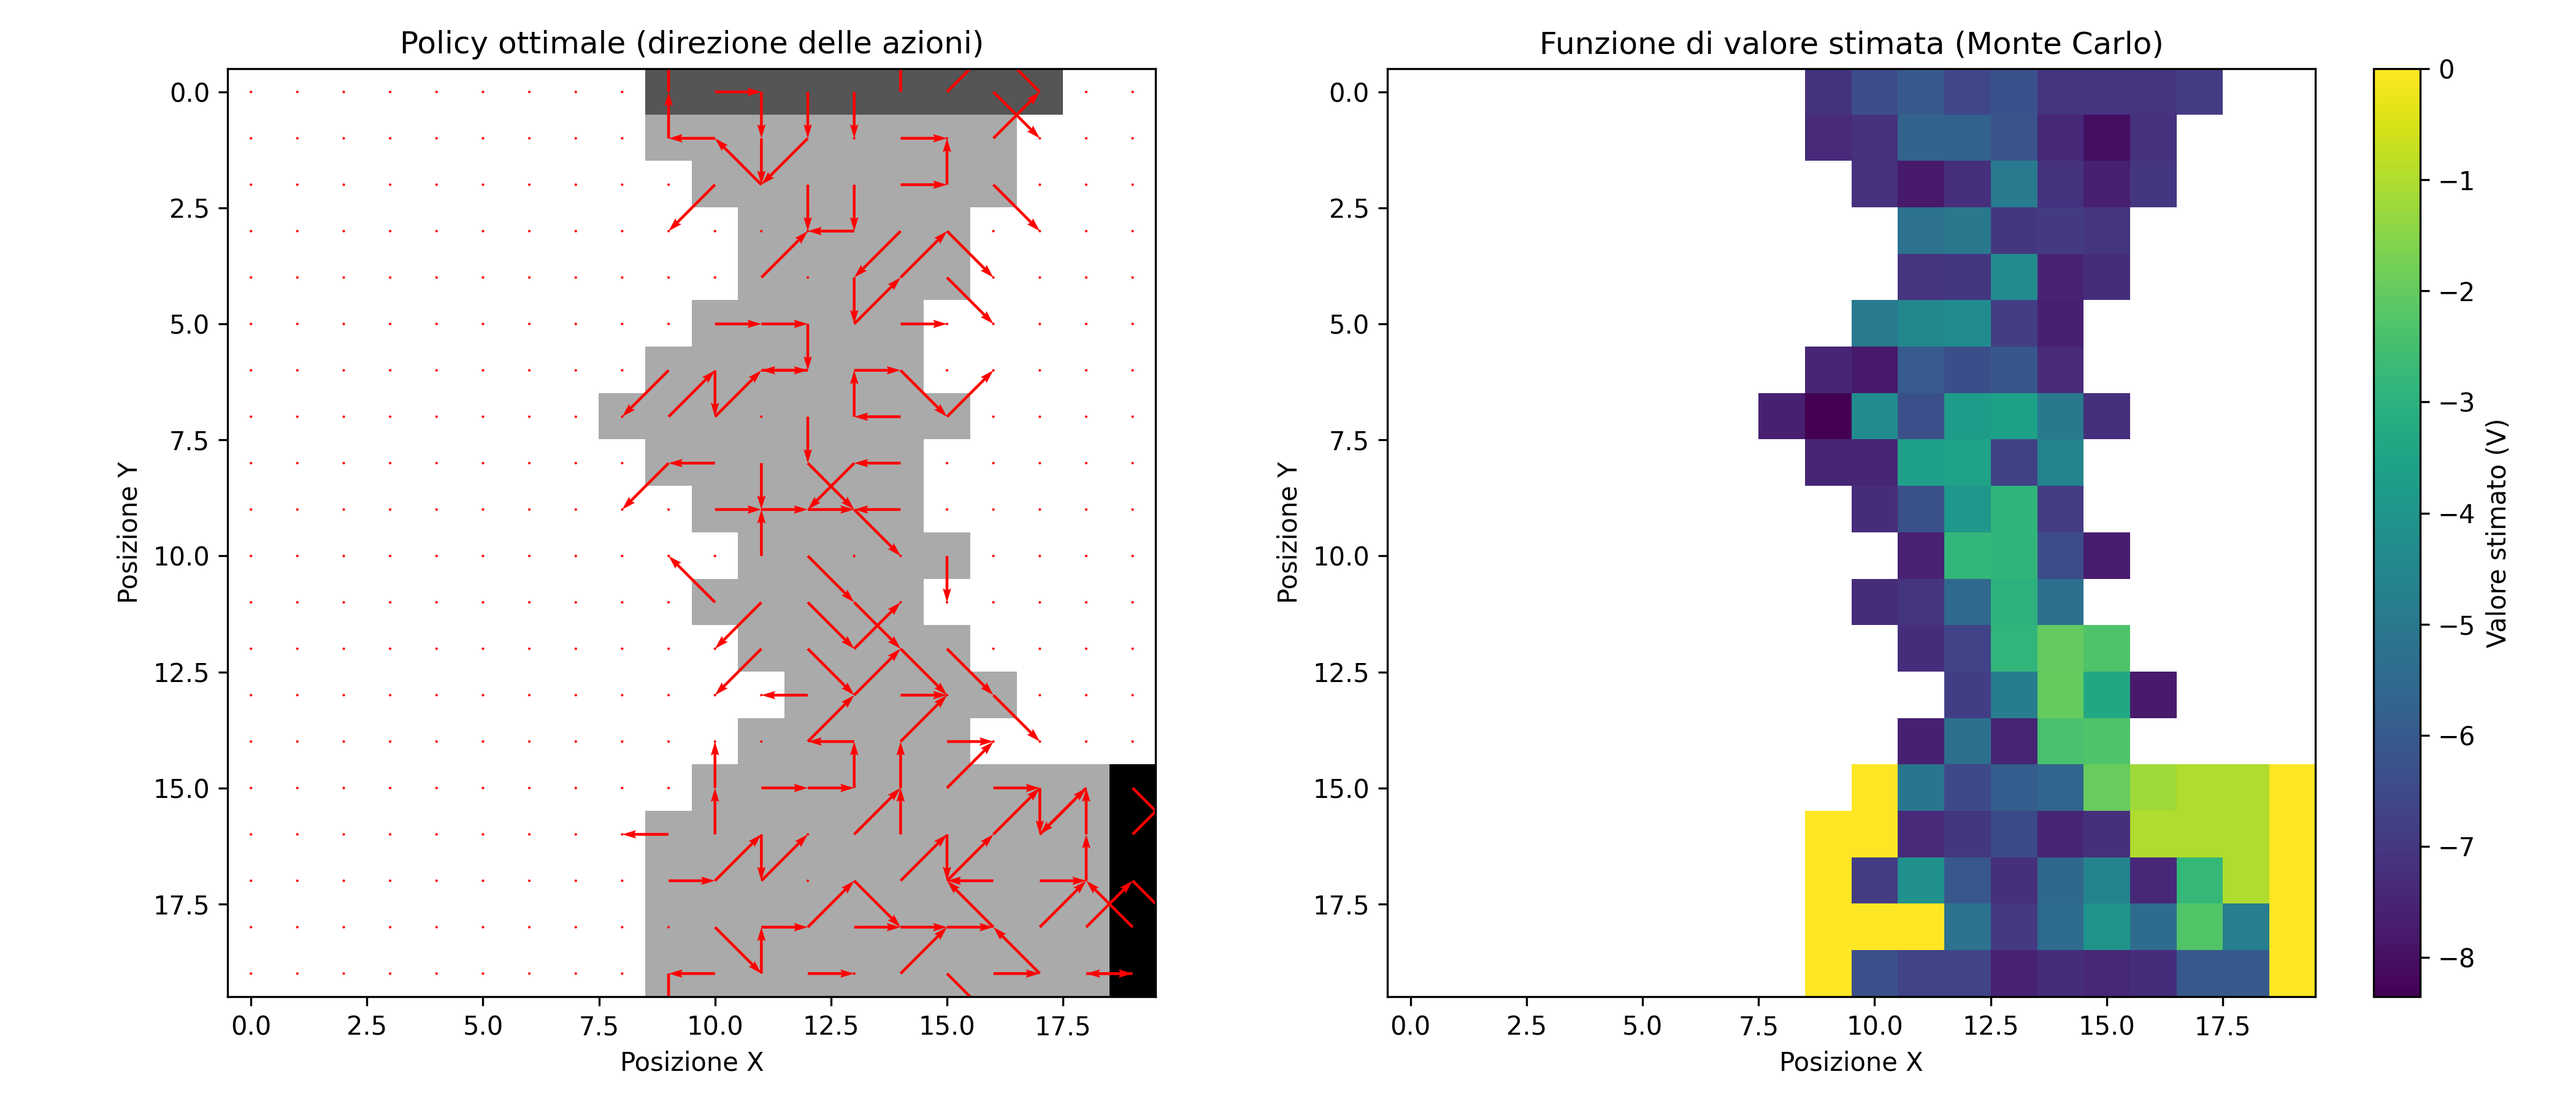
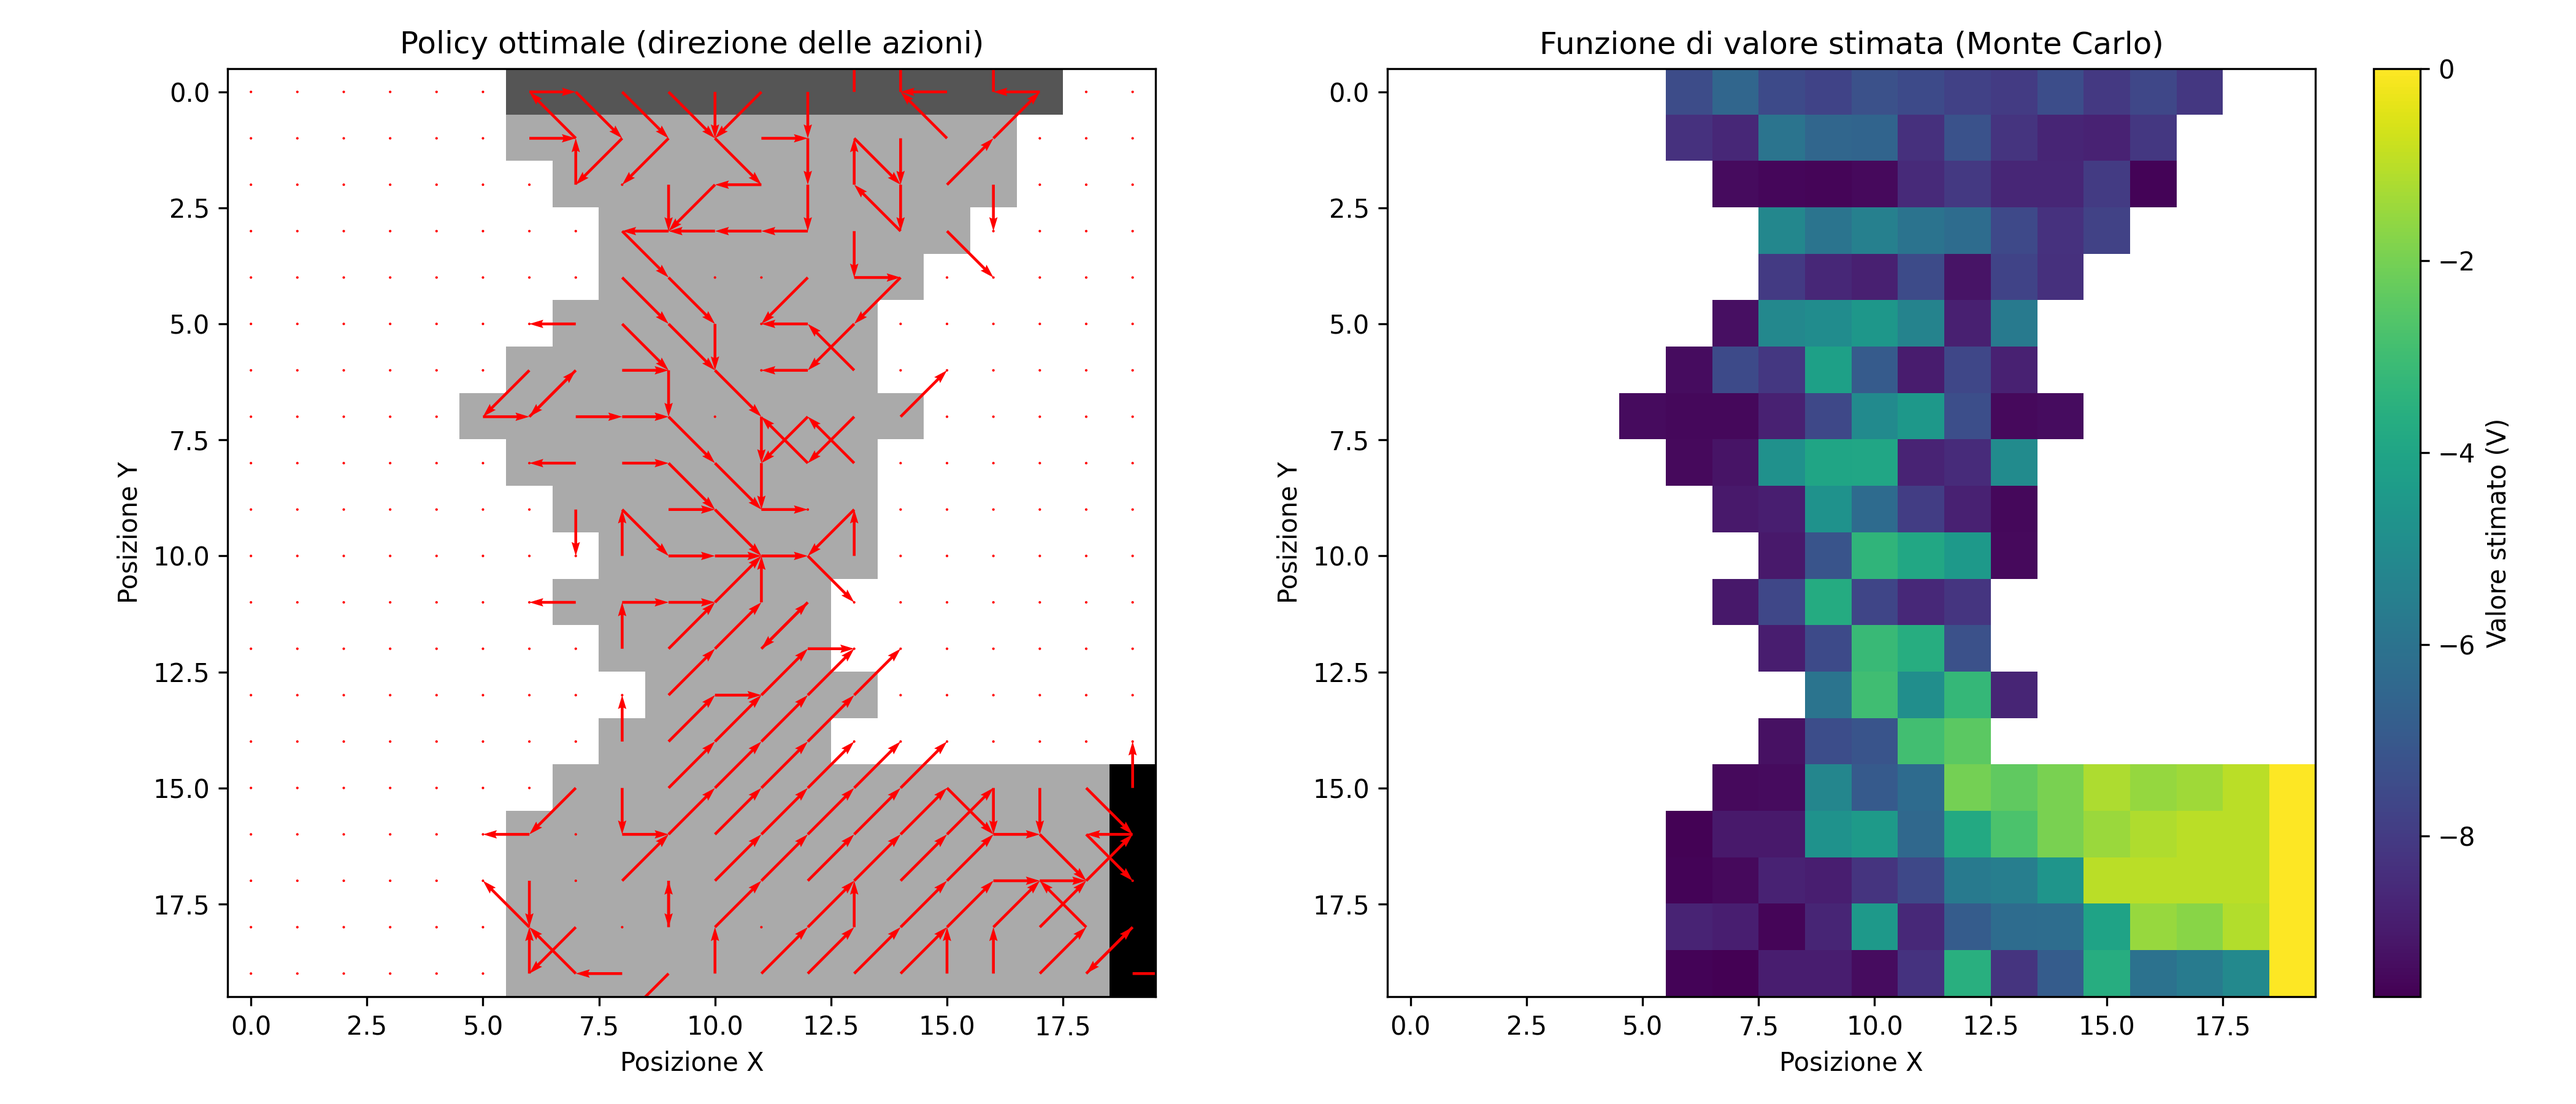
fix

diff --git a/homework ronzello/ractrack/monte_carlo.py b/homework ronzello/ractrack/monte_carlo.py
@@ -47,7 +47,7 @@ def generate_episode(track,pi,eps):
         for y in range(s1, s1 + new_vv + step, step): #la macchina si muove prima verticalmente, controllo non sbatta
             if not 0<= y <N2 or track[y,s2]==-1: #va fuori dal tracciato
                 if not REWARD_FISSO:
-                    episode.append([stato_attuale,azione_presa,-10])
+                    episode.append([stato_attuale,azione_presa,-20])
                 s2 = get_start_point(track)
                 s1=0
                 vv=0
@@ -70,7 +70,7 @@ def generate_episode(track,pi,eps):
         for x in range(s2, s2 + new_vo + step, step):
             if not 0<= x <N1 or track[s1,x]==-1: #va fuori dal tracciato
                 if not REWARD_FISSO:
-                    episode.append([stato_attuale,azione_presa,-1])
+                    episode.append([stato_attuale,azione_presa,-20])
                 s2 = get_start_point(track)
                 s1=0
                 vv = 0
@@ -84,7 +84,7 @@ def generate_episode(track,pi,eps):
                 break
             if track[s1,x]==2: #arrivata alla fine
                 if not REWARD_FISSO:
-                    episode.append([stato_attuale,azione_presa,30])
+                    episode.append([stato_attuale,azione_presa,50])
                 end=True
                 break
         if stop:
@@ -114,11 +114,11 @@ def MC(track):
     # monitoraggio
     avg_returns = []
     avg_lengths = []
-    eps_initial = 0.1
+    eps = 1
+    eps_end = 0.01
+    decay_rate = 0.9995
     for el in range(100_000):#numero episodi
         #print("episodio "+str(el))
-        decay_rate = 0.99995
-        eps = eps_initial * decay_rate**el
 
         episode = generate_episode(track,pi,eps)
         G=0
@@ -136,6 +136,7 @@ def MC(track):
         avg_returns.append(total_return)
         avg_lengths.append(len(episode))
 
+        eps = max(eps_end, eps * decay_rate)
         if (el+1) % 1000 == 0:
             print(f"[Episodio {el+1}] "
                   f"Lunghezza media: {np.mean(avg_lengths[-50:]):.1f}, "
